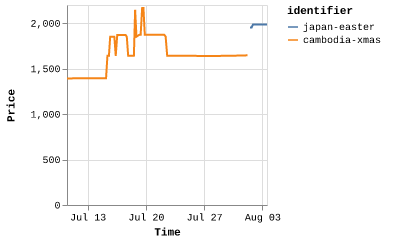
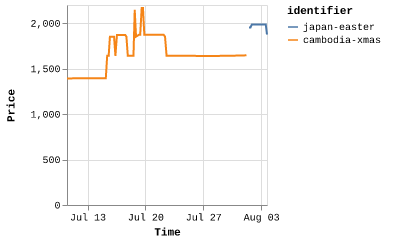
Latest scraping flights: Sun Aug  3 16:54:40 UTC 2025

diff --git a/scrapes/flights/japan-easter.md b/scrapes/flights/japan-easter.md
@@ -1,1 +1,1 @@
-€1,985
+€1,875
